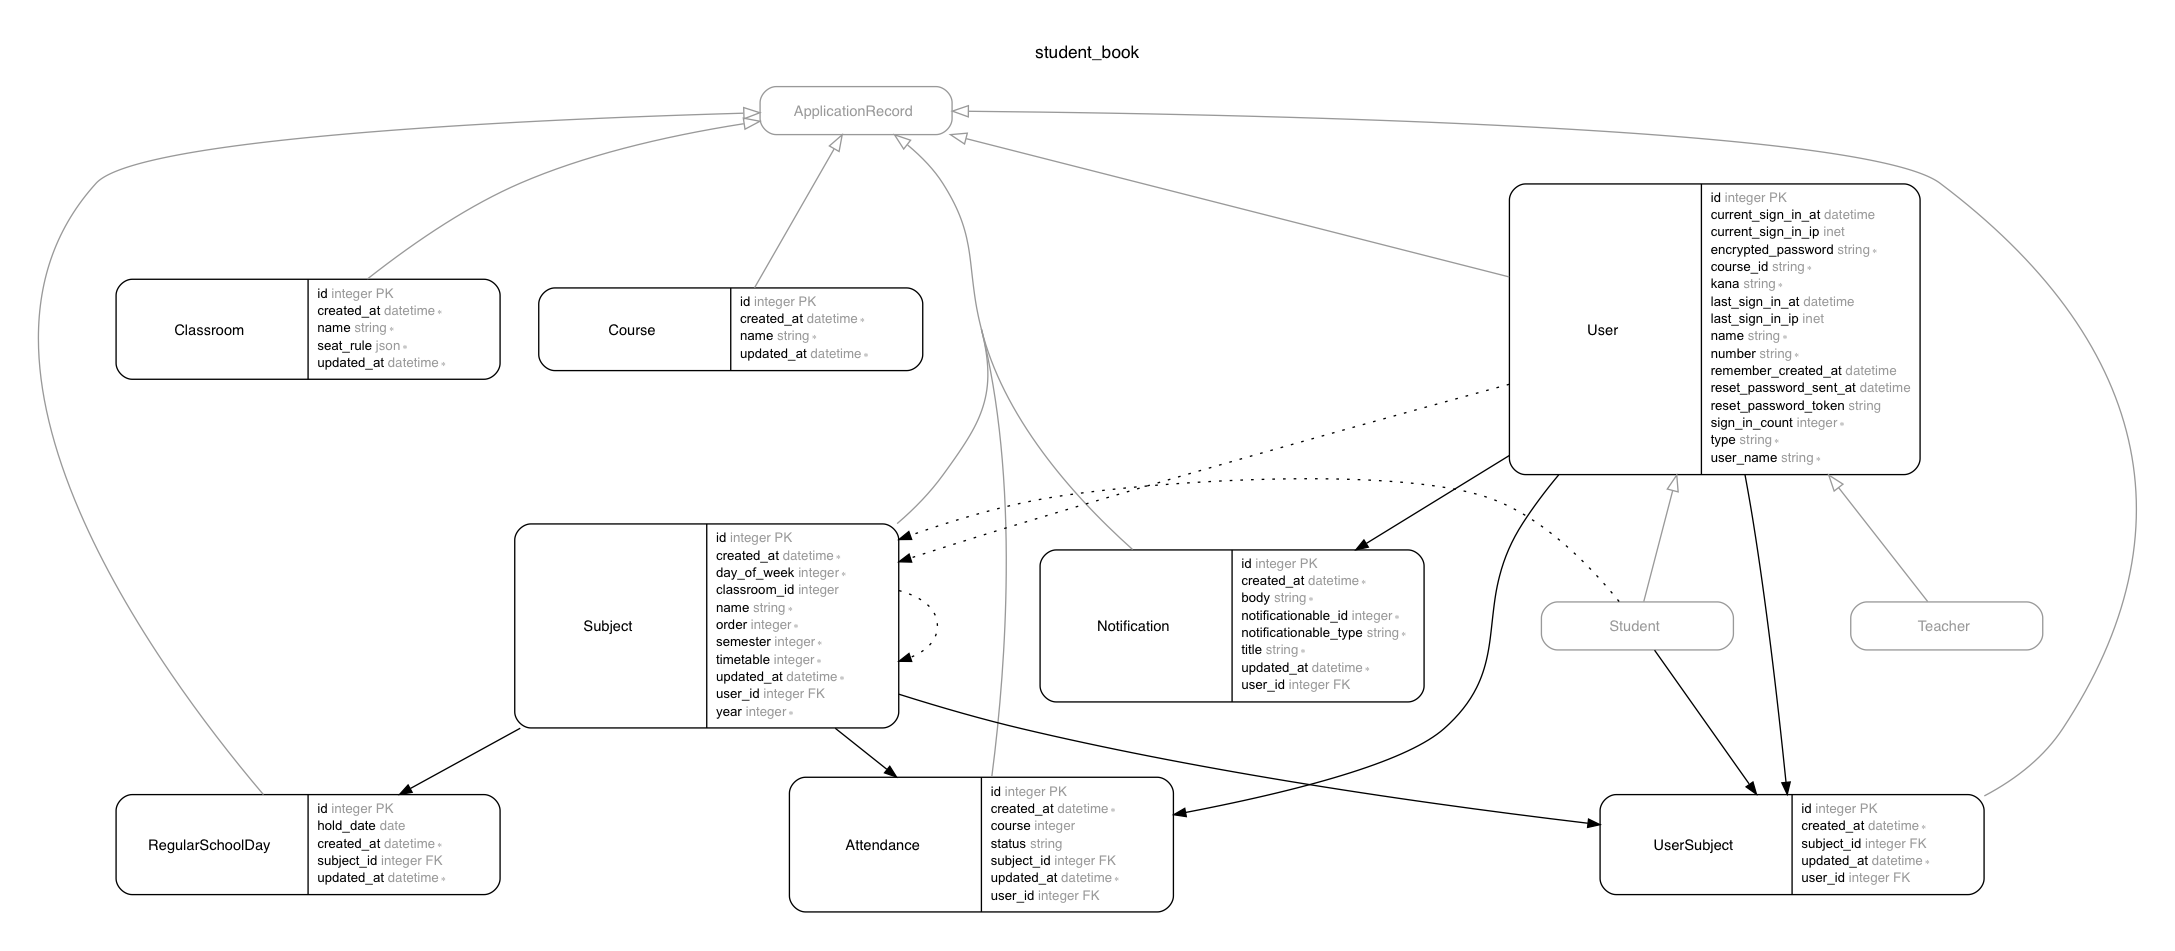
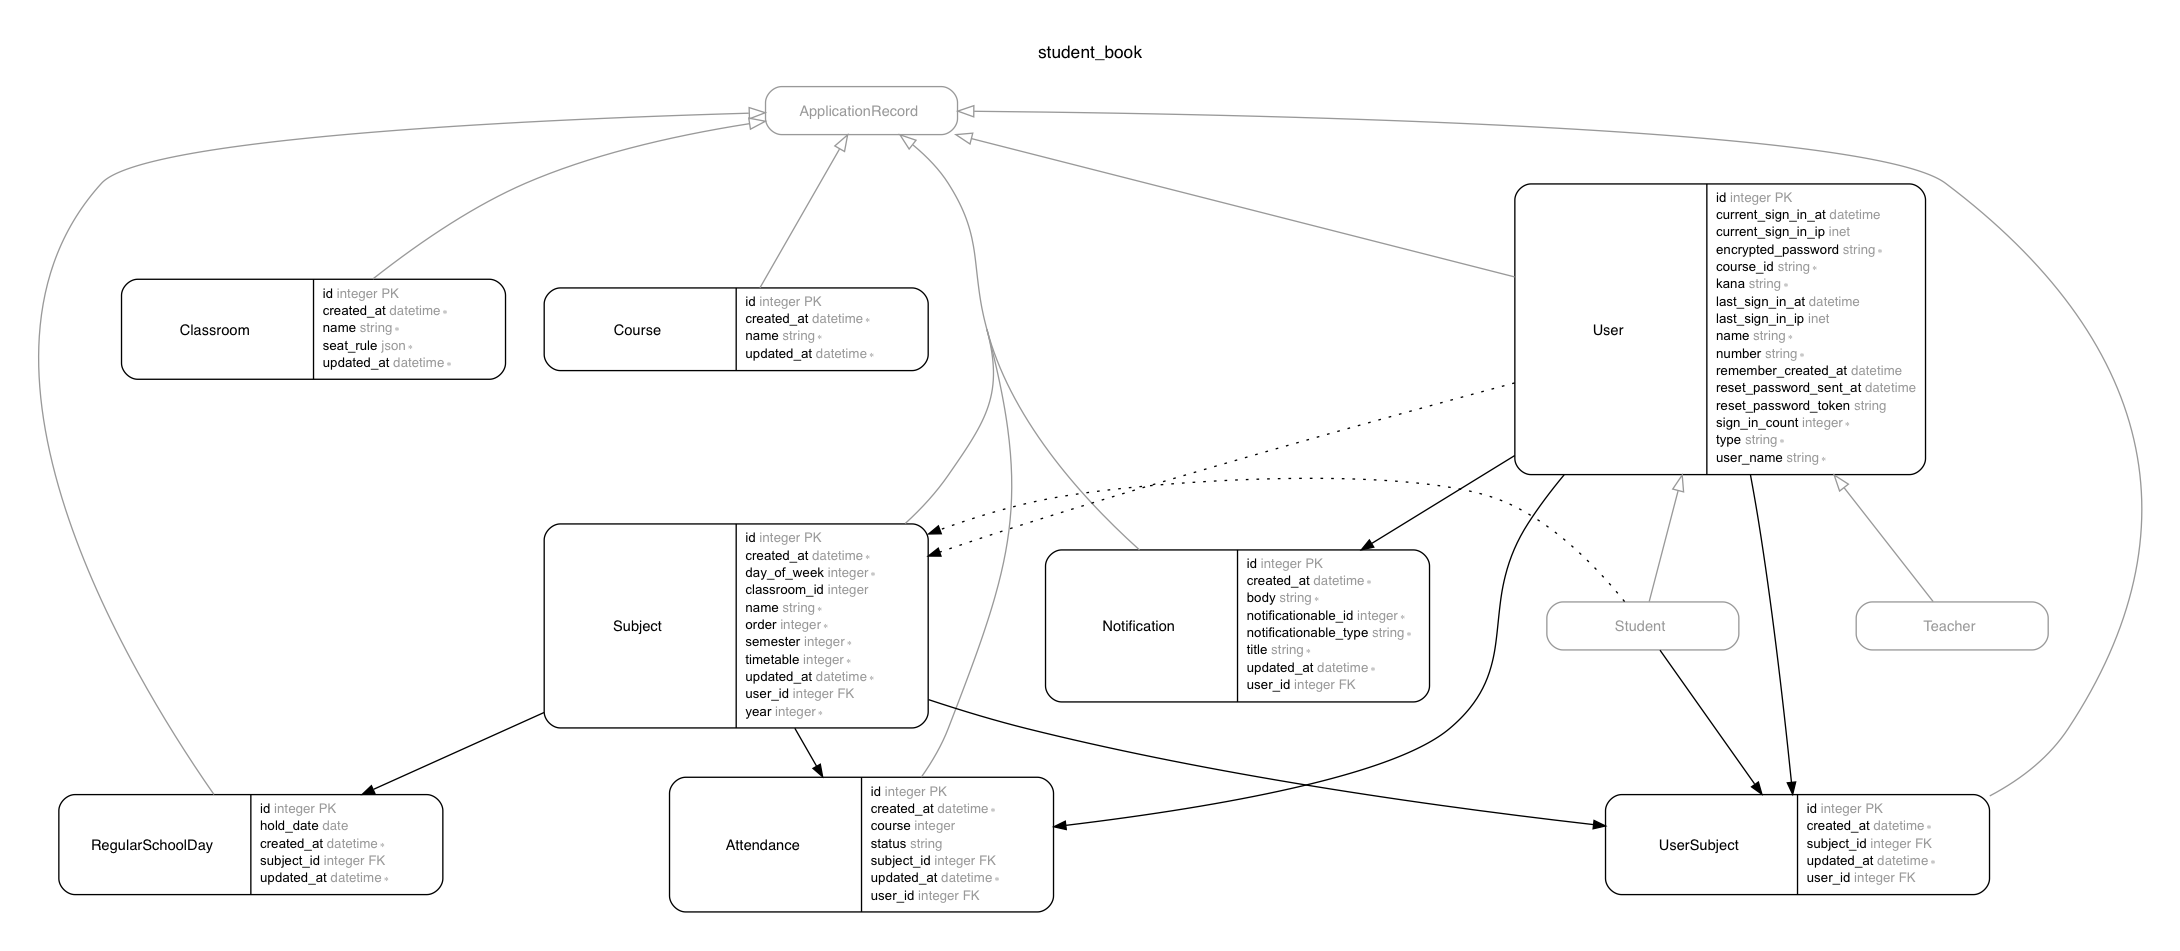
Subjectの関連先を修正

diff --git a/app/models/subject.rb b/app/models/subject.rb
@@ -18,5 +18,6 @@
 class Subject < ApplicationRecord
   belongs_to :user
   has_many :user_subjects
-  has_many :subjects, through: :user_subjects
+  has_many :users, through: :user_subjects
+  has_many :attendances
 end
